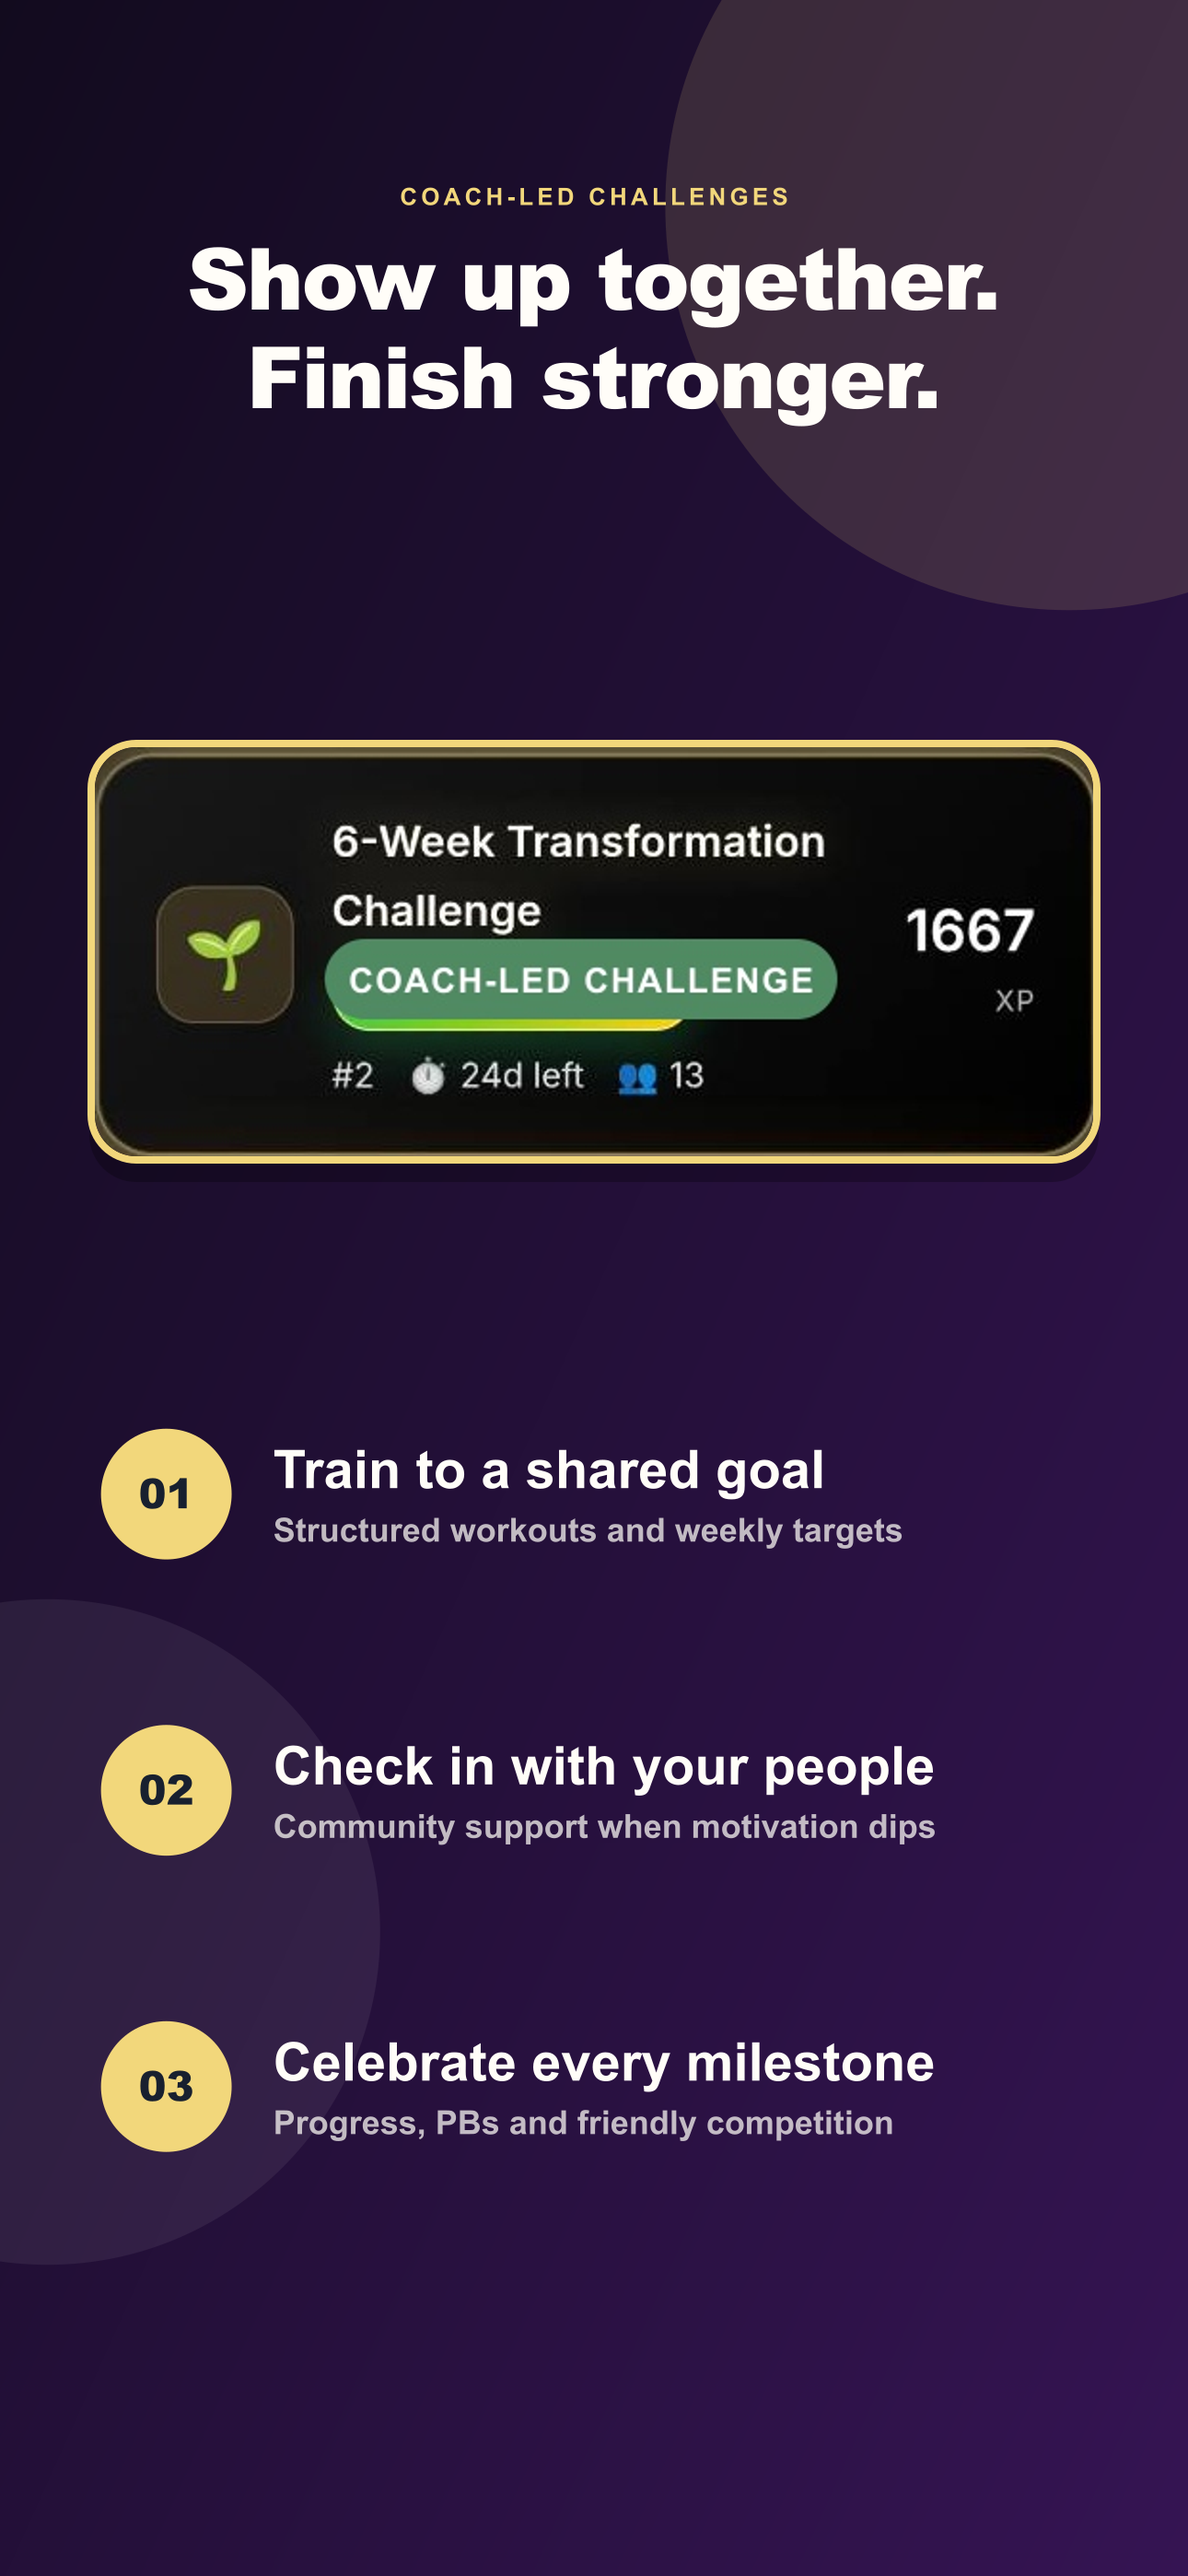
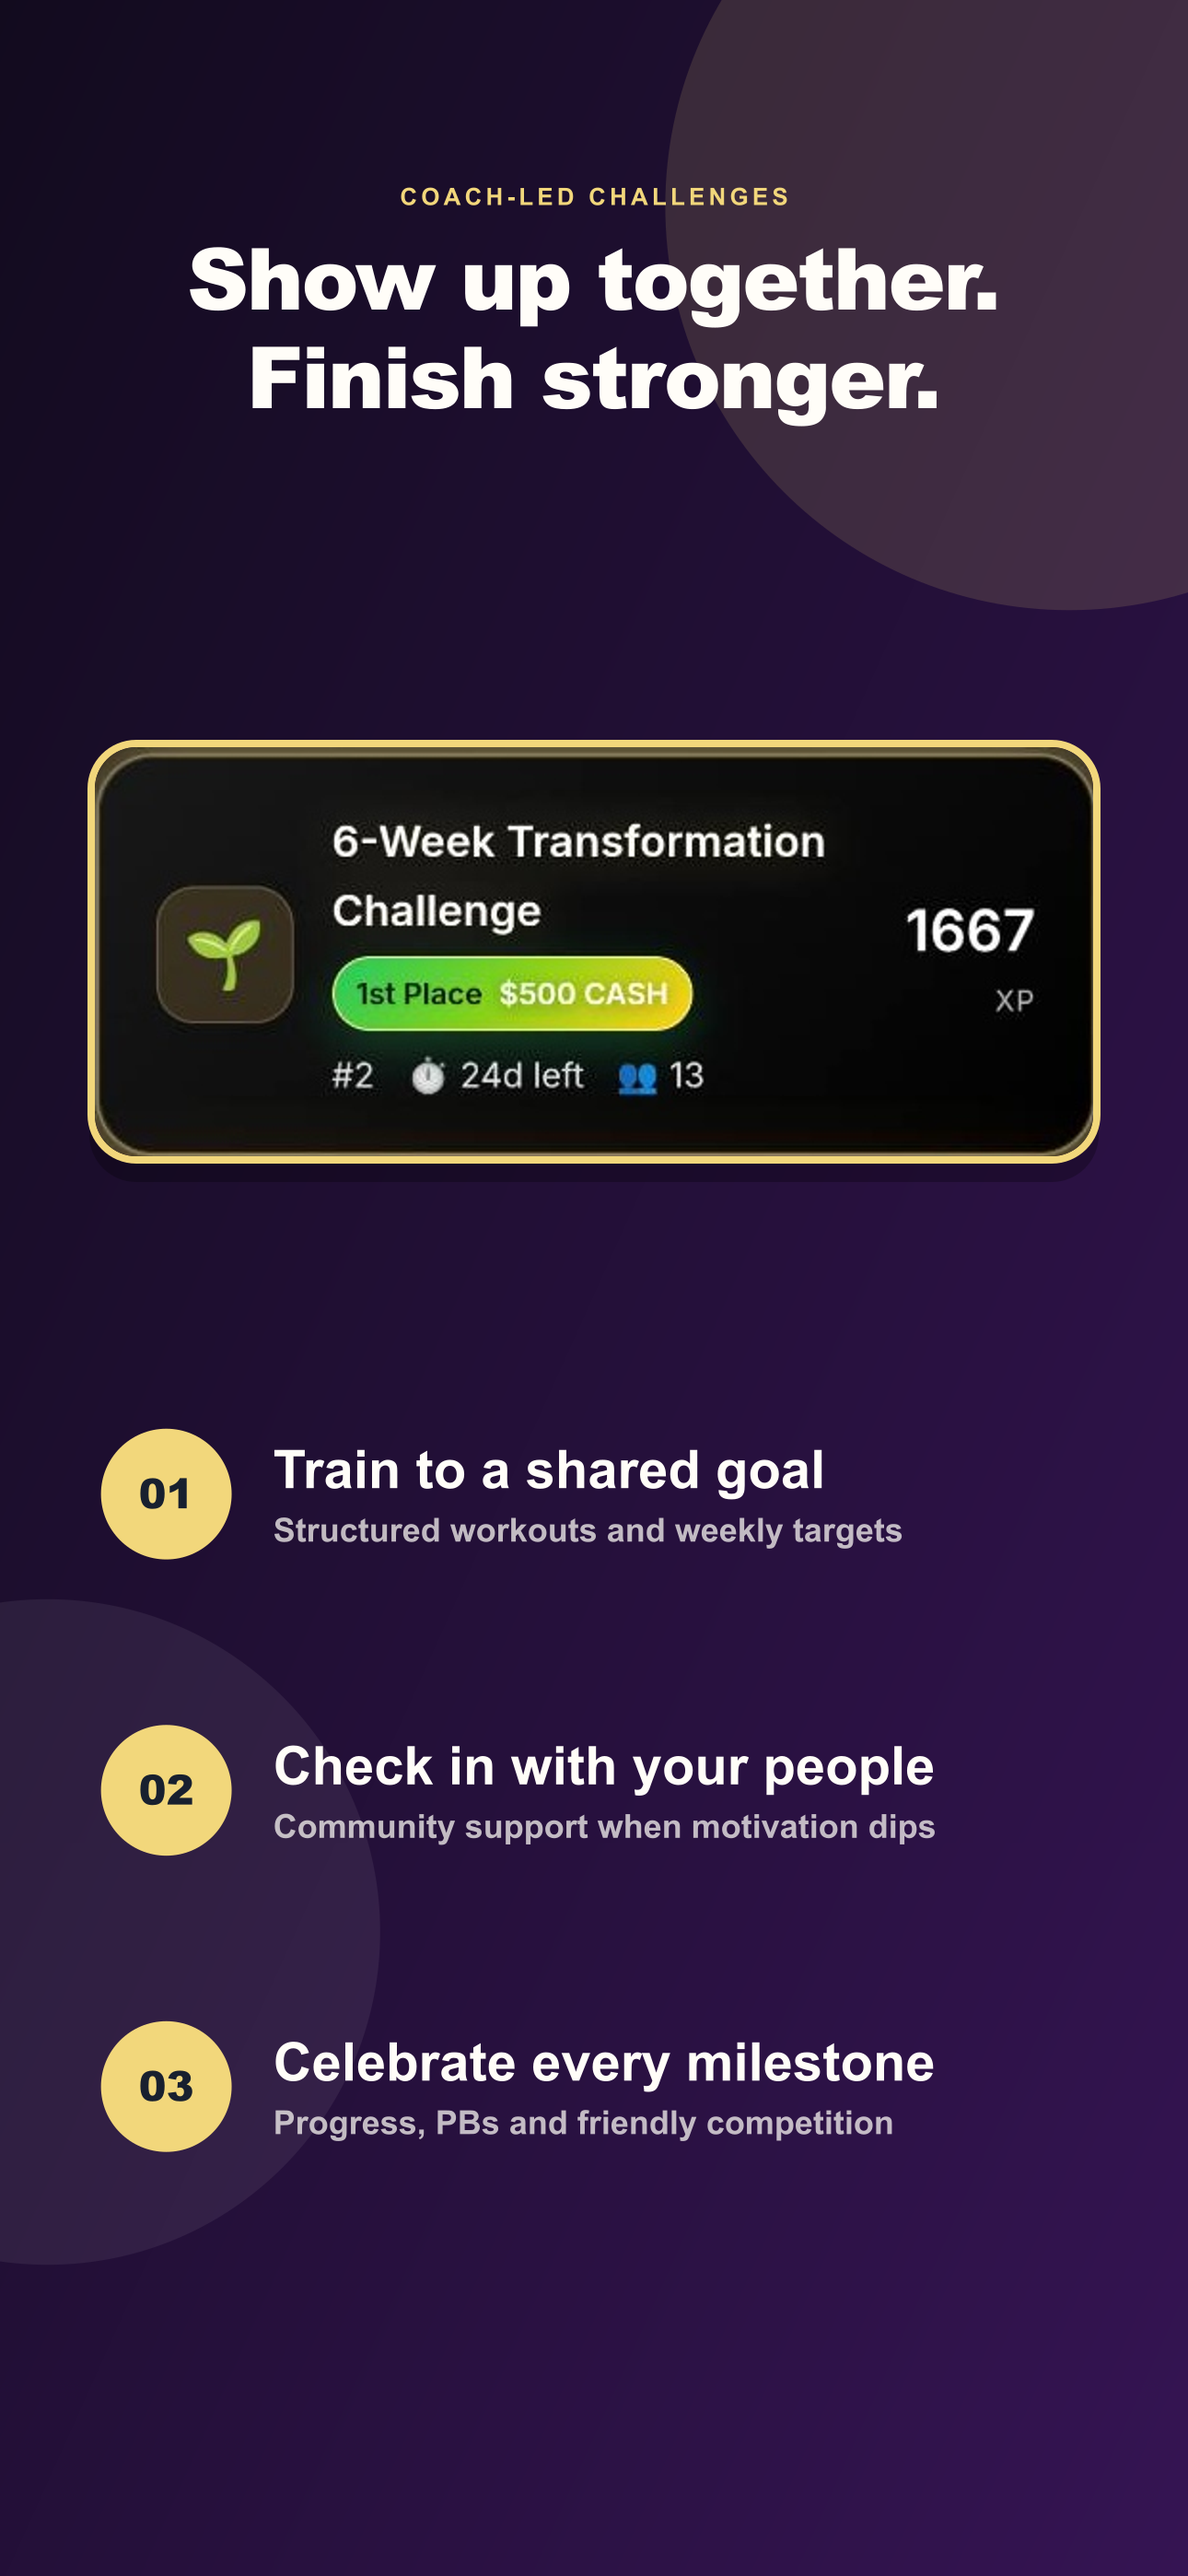
fix: improve store listing callouts

Changed region(s): [[0.2791, 0.3423, 0.7132, 0.4045]]

diff --git a/tests/store-listing-brand.test.js b/tests/store-listing-brand.test.js
@@ -67,3 +67,10 @@ test('store visuals use approved phone dimensions and no character assets', asyn
     const feature = await sharp(path.join(root, 'store-listing', 'google-play', 'en-AU', 'images', 'featureGraphic.png')).metadata();
     assert.deepEqual([feature.width, feature.height], [1024, 500]);
 });
+
+test('store visual generator keeps listing callouts readable and authentic', () => {
+    const generator = read('scripts/generate-store-listing-assets.mjs');
+
+    assert.doesNotMatch(generator, />COACH-LED CHALLENGE<\/text>/);
+    assert.match(generator, /x="\$\{spec\.width \* 0\.05\}"[^>]+width="\$\{spec\.width \* 0\.9\}"/);
+});
